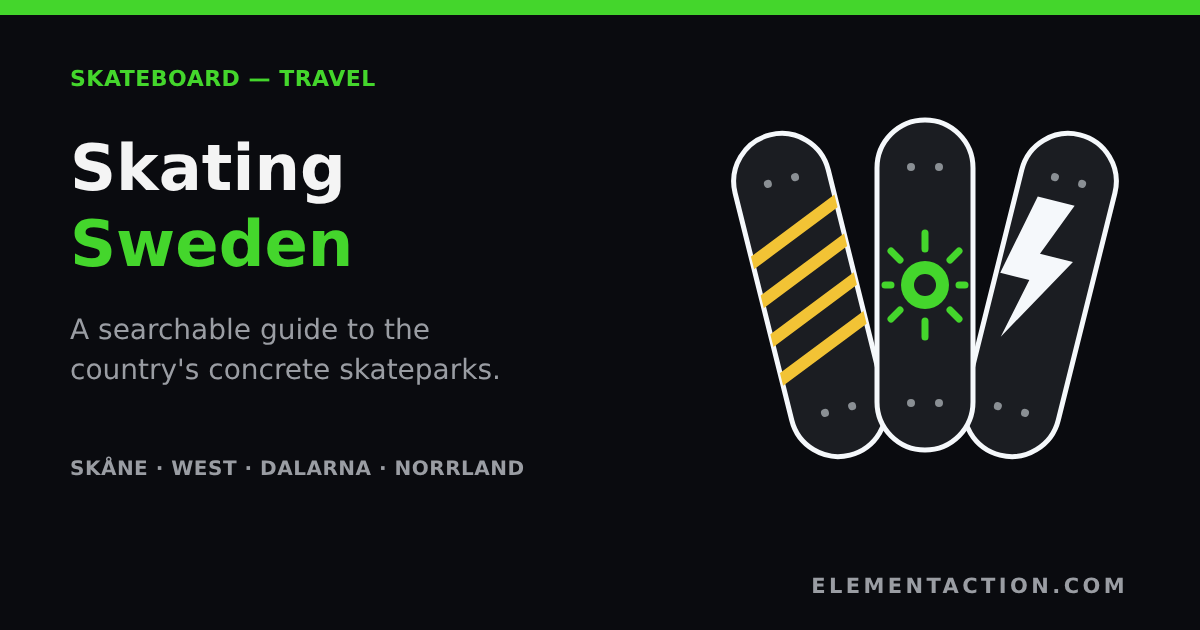
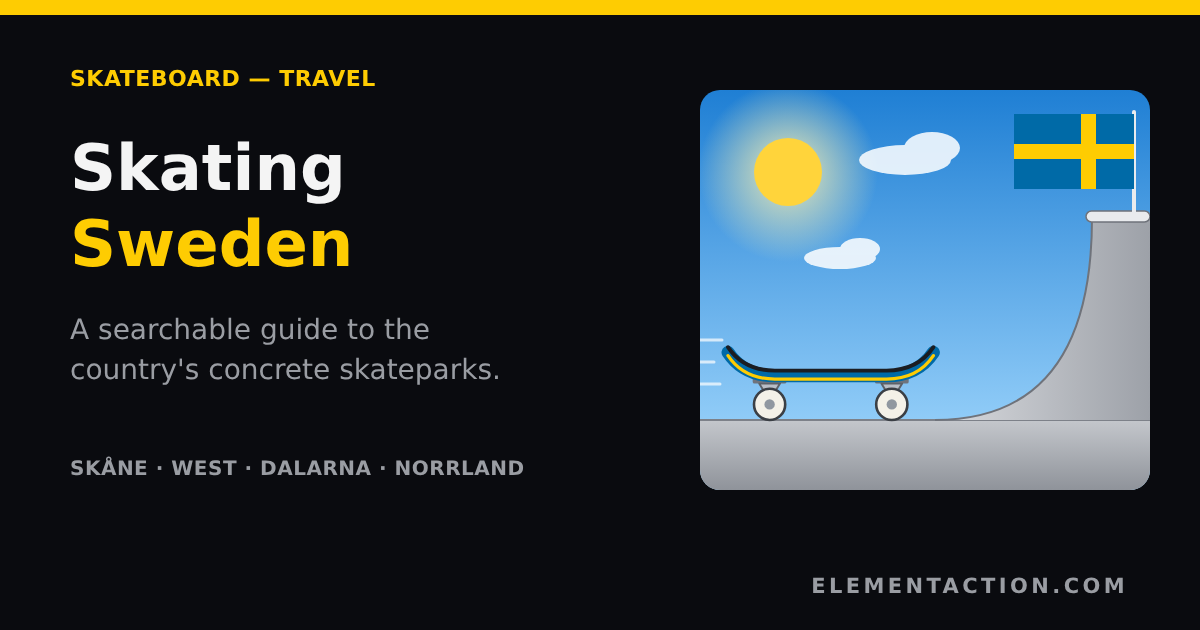
ny og bild sweden

diff --git a/scripts/staging/make_og.py b/scripts/staging/make_og.py
@@ -9,6 +9,52 @@ ROOT = pathlib.Path(__file__).resolve().parents[2]
 OUT = ROOT / 'public/images/articles'
 
 ART = {
+    'sweflag': '''
+      <defs>
+        <linearGradient id="sky" x1="0" y1="0" x2="0" y2="1"><stop offset="0" stop-color="#1f7fd4"/><stop offset="1" stop-color="#a8dcff"/></linearGradient>
+        <linearGradient id="ramp" x1="0" y1="0" x2="1" y2="0"><stop offset="0" stop-color="#d9dbdf"/><stop offset="1" stop-color="#9da1a8"/></linearGradient>
+        <linearGradient id="ground" x1="0" y1="0" x2="0" y2="1"><stop offset="0" stop-color="#c4c7cc"/><stop offset="1" stop-color="#8f939a"/></linearGradient>
+        <radialGradient id="sunglow"><stop offset="0" stop-color="#fff3b0" stop-opacity=".9"/><stop offset="1" stop-color="#fff3b0" stop-opacity="0"/></radialGradient>
+        <clipPath id="scene"><rect x="0" y="0" width="450" height="400" rx="20"/></clipPath>
+      </defs>
+      <g clip-path="url(#scene)">
+        <rect x="0" y="0" width="450" height="400" fill="url(#sky)"/>
+        <circle cx="88" cy="82" r="90" fill="url(#sunglow)"/>
+        <circle cx="88" cy="82" r="34" fill="#FFD43B"/>
+        <g fill="#ffffff" opacity=".85">
+          <ellipse cx="205" cy="70" rx="46" ry="15"/><ellipse cx="232" cy="58" rx="28" ry="16"/>
+          <ellipse cx="140" cy="168" rx="36" ry="11"/><ellipse cx="160" cy="159" rx="20" ry="11"/>
+        </g>
+        <rect x="0" y="330" width="450" height="70" fill="url(#ground)"/>
+        <path d="M0 330 H450" stroke="#7d8189" stroke-width="2"/>
+        <path d="M235 330 Q 392 330 392 128 L 450 128 L 450 330 Z" fill="url(#ramp)"/>
+        <path d="M235 330 Q 392 330 392 128" fill="none" stroke="#6f737b" stroke-width="2"/>
+        <rect x="386" y="121" width="64" height="11" rx="5.5" fill="#e9ebee" stroke="#6f737b" stroke-width="1.5"/>
+        <path d="M434 122 V 22" stroke="#e9ebee" stroke-width="4" stroke-linecap="round"/>
+        <g>
+          <rect x="314" y="24" width="120" height="75" fill="#006AA7"/>
+          <rect x="314" y="54" width="120" height="15" fill="#FECC02"/>
+          <rect x="381" y="24" width="15" height="75" fill="#FECC02"/>
+        </g>
+        <g stroke="#ffffff" stroke-width="3" stroke-linecap="round" opacity=".7">
+          <path d="M-4 250 H22"/><path d="M-4 272 H14"/><path d="M-4 294 H20"/>
+        </g>
+        <g transform="translate(-24 -99) scale(1.3)">
+          <path d="M52 288 L66 298" fill="none" stroke="#9097a0" stroke-width="5" stroke-linejoin="round"/>
+          <path d="M172 298 L186 288" fill="none" stroke="#9097a0" stroke-width="5" stroke-linejoin="round"/>
+          <rect x="59" y="296" width="26" height="6" rx="1.5" fill="#6f747c"/>
+          <rect x="153" y="296" width="26" height="6" rx="1.5" fill="#6f747c"/>
+          <path d="M64 302 L72 315 L80 302 Z" fill="#b8bec6" stroke="#5c6168" stroke-width="1.5" stroke-linejoin="round"/>
+          <path d="M158 302 L166 315 L174 302 Z" fill="#b8bec6" stroke="#5c6168" stroke-width="1.5" stroke-linejoin="round"/>
+          <path d="M40 278 Q 52 296 76 296 H162 Q 186 296 198 278" fill="none" stroke="#006AA7" stroke-width="10" stroke-linecap="round"/>
+          <path d="M40 278 Q 52 296 76 296 H162 Q 186 296 198 278" fill="none" stroke="#FECC02" stroke-width="2.5" stroke-linecap="round" transform="translate(0 2.5)"/>
+          <path d="M40 274 Q 52 292 76 292 H162 Q 186 292 198 274" fill="none" stroke="#1b1d22" stroke-width="3" stroke-linecap="round"/>
+          <circle cx="72" cy="318" r="12" fill="#f4f1e8" stroke="#3b3f45" stroke-width="2"/>
+          <circle cx="72" cy="318" r="4" fill="#9097a0"/>
+          <circle cx="166" cy="318" r="12" fill="#f4f1e8" stroke="#3b3f45" stroke-width="2"/>
+          <circle cx="166" cy="318" r="4" fill="#9097a0"/>
+        </g>
+      </g>''',
     'sundeck': '''
       <circle cx="225" cy="200" r="150" fill="#e0242f"/>
       <g transform="translate(225 215) rotate(-18)">
@@ -188,7 +234,7 @@ DATA = [
          kicker='INSPIRATION — TRAVEL', t1='Uncrowded', t2='Waves',
          lead='Nine surf trips away from the crowds, from the Arctic to Papua New Guinea.',
          tags='LOFOTEN · THURSO · NAMIBIA · PNG'),
-    dict(slug='skateparks-sweden-travel-guide', acc='#44d62c', art='deck',
+    dict(slug='skateparks-sweden-travel-guide', acc='#FECC02', art='sweflag',
          kicker='SKATEBOARD — TRAVEL', t1='Skating', t2='Sweden',
          lead='A searchable guide to the country\'s concrete skateparks.',
          tags='SKÅNE · WEST · DALARNA · NORRLAND'),
